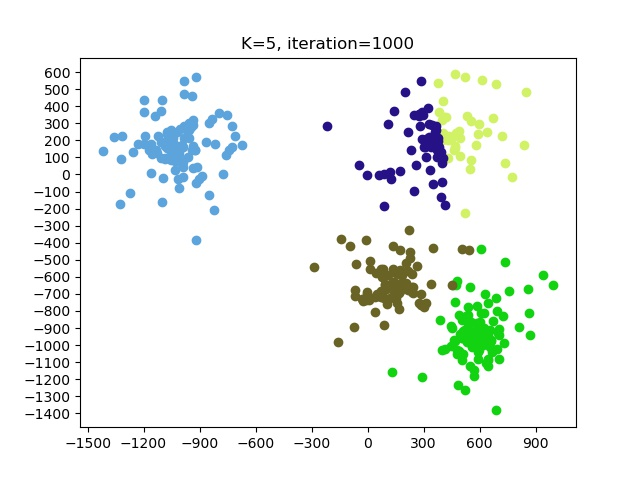
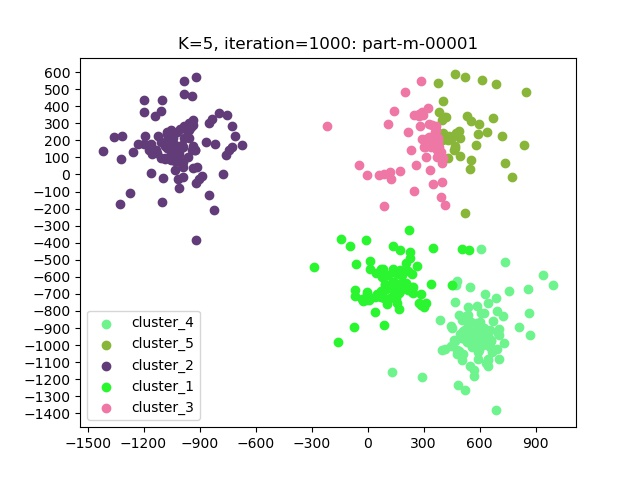
update 绘图结果

diff --git a/visualization_kmeans.py b/visualization_kmeans.py
@@ -30,20 +30,19 @@ def read_file(_files_path):
             _points.append(_point)
             _point = []
             _cluster_id.append(int(float(line[2])))
-        # 如果对单个文件执行画图，则line34-line40取消注释，并注释掉lin42-line46
-        # _k = len(_cluster_id)  # 簇的数目
-        # _k_cluster = defaultdict(list)
-        #
-        # for i in range(len(_points)):
-        #     _k_cluster[_cluster_id[i]].append(_points[i])
-        #
-        # draw_graph(_k_cluster=_k_cluster, _points=_points, _f_name=f_name)
+        # 如果还需要对单个文件执行画图，则line34-line40取消注释，并注释掉lin42-line46
+        _k = len(_cluster_id)  # 簇的数目
+        _k_cluster = defaultdict(list)
 
-    _k = len(_cluster_id)  # 簇的数目
-    _k_cluster = defaultdict(list)
+        for i in range(len(_points)):
+            _k_cluster[_cluster_id[i]].append(_points[i])
 
-    for i in range(len(_points)):
-        _k_cluster[_cluster_id[i]].append(_points[i])
+        draw_graph(_k_cluster=_k_cluster, _points=_points, _f_name=f_name)
+
+    # _k = len(_cluster_id)  # 簇的数目
+    # _k_cluster = defaultdict(list)
+    # for i in range(len(_points)):
+    #     _k_cluster[_cluster_id[i]].append(_points[i])
 
     # print(_k_cluster)
     # print(len(_k_cluster))
@@ -61,7 +60,7 @@ def random_color():
     return '#' + color
 
 
-def draw_graph(_k_cluster, _points, _f_name='part-m-00000'):
+def draw_graph(_k_cluster, _points, _f_name='final'):
     """
     将不同簇用不同颜色着色
     :param _k_cluster: 簇及对应的点
@@ -78,12 +77,13 @@ def draw_graph(_k_cluster, _points, _f_name='part-m-00000'):
     for cluster_id, pts in _k_cluster.items():
         _x = [_p[0] for _p in pts]
         _y = [_p[1] for _p in pts]
-
         ax.scatter(x=_x, y=_y, c=color[int(cluster_id)], label='cluster_'+str(cluster_id))
 
     ax.xaxis.set_major_locator(ticker.MultipleLocator(base=300))
     ax.yaxis.set_major_locator(ticker.MultipleLocator(base=100))
-    ax.set_title('K=5, iteration=1000')
+    ax.set_title('K=5, iteration=1000: ' + str(_f_name))
+
+    ax.legend()
     plt.savefig('visualization-'+str(_f_name)+'.jpg')
     plt.show()
 
